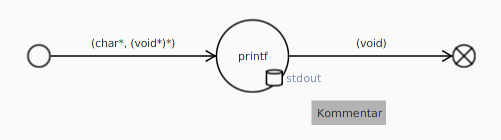
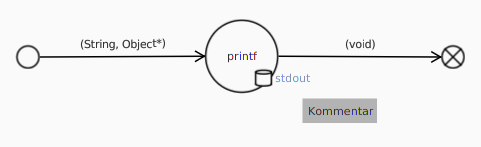
Fixed pointer list incompatibility

diff --git a/doc/expl_flowdesign.tex b/doc/expl_flowdesign.tex
@@ -122,9 +122,9 @@ Tabelle aufgelistet. Wie bereits in \refShort{\textFlowElements} erwähnt, werde
 	\hline
 	(x, y) & Ein Parameter vom Typ ''x'' und ein weiterer vom Typ ''y'' \\
 	\hline
-	(y)* & Liste vom Typ ''y'' \\
+	(y*) & Liste vom Typ ''y'' \\
 	\hline
-	(x, (y)*) & Ein Parameter vom Typ ''x'' und eine Liste vom Typ ''y'' \\
+	(x, y*) & Ein Parameter vom Typ ''x'' und eine Liste vom Typ ''y'' \\
 	\hline
 	\{y\} & Mehrfachaufruf mit einem Parameter vom Typ ''y'' \\
 	\hline
@@ -132,5 +132,5 @@ Tabelle aufgelistet. Wie bereits in \refShort{\textFlowElements} erwähnt, werde
 \end{center}
 
 Abbildungen \ref{flowElementConnectedComment} und \ref{flowElementConnectedDep} zeigen wie die Operation ''printf'' mit
-der folgenden Datentyp Notation aufgerufen wird: ''(char*, (void)*)''. Dies bedeutet, dass ein char-Pointer und eine Liste
-von void-Pointern übergeben werden.
+der folgenden Datentyp Notation aufgerufen wird: ''(String, Object*)''. Dies bedeutet, dass ein String und eine Liste
+von Objecten übergeben wird.
